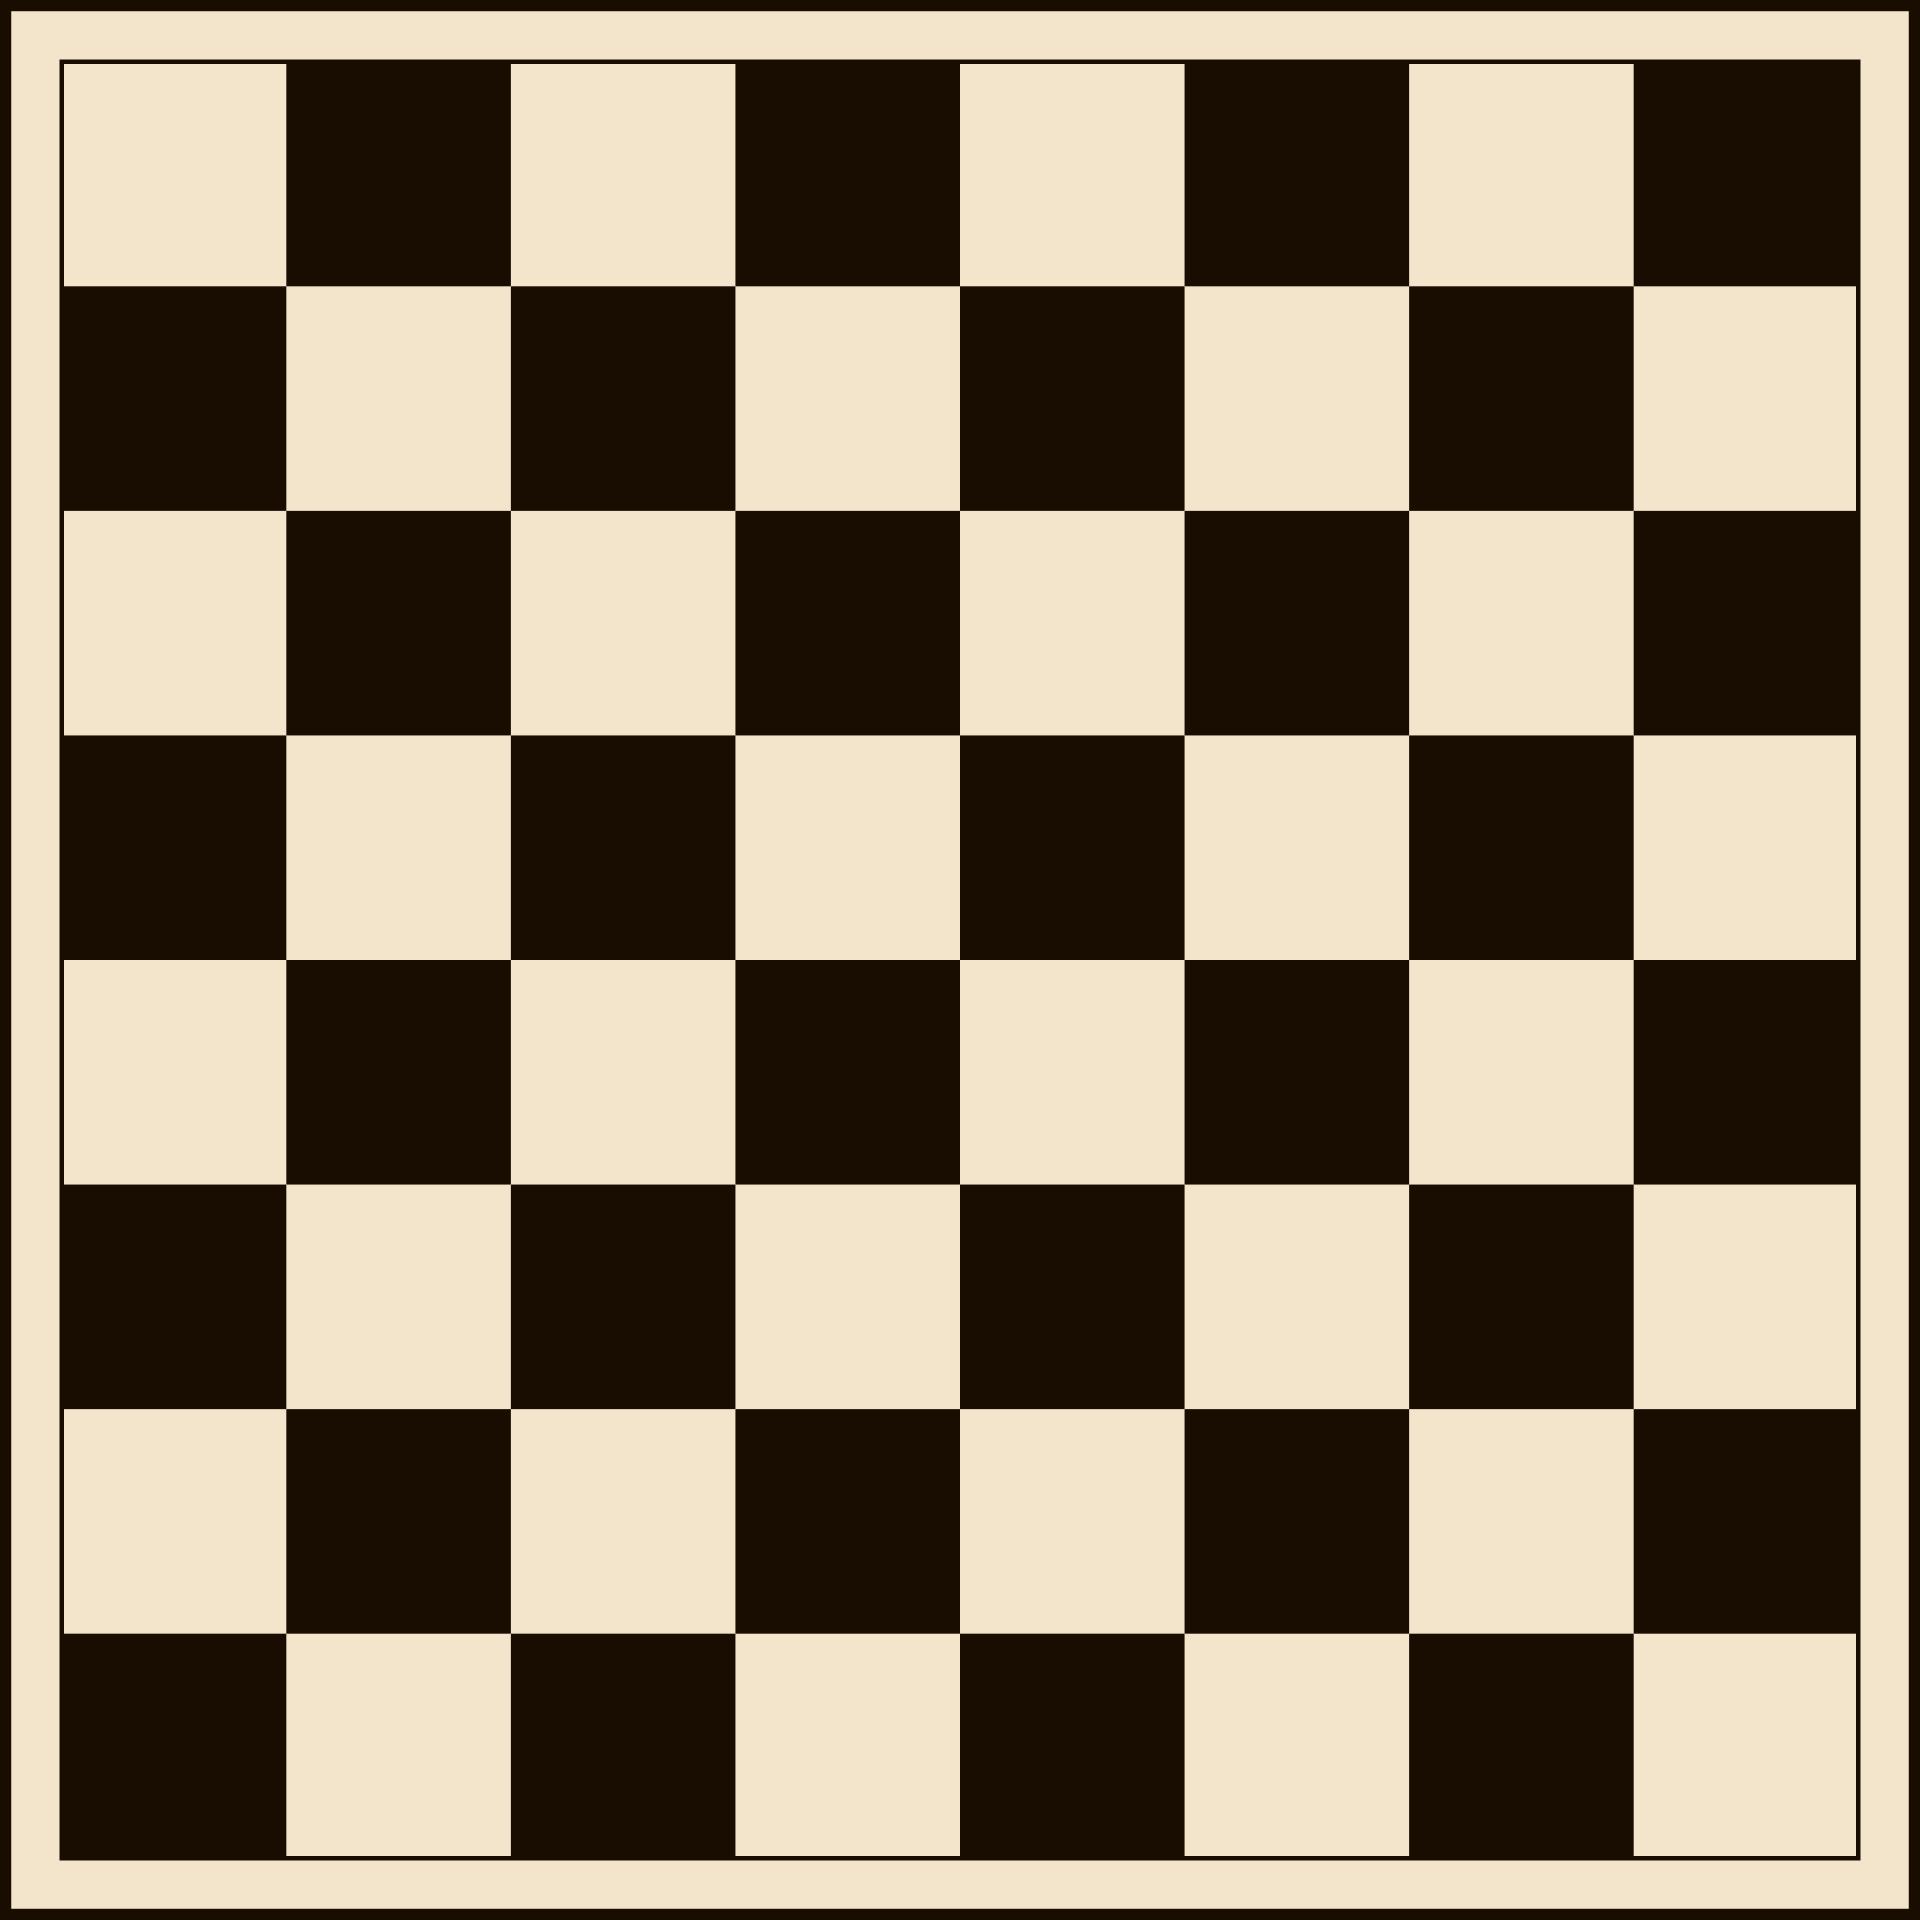
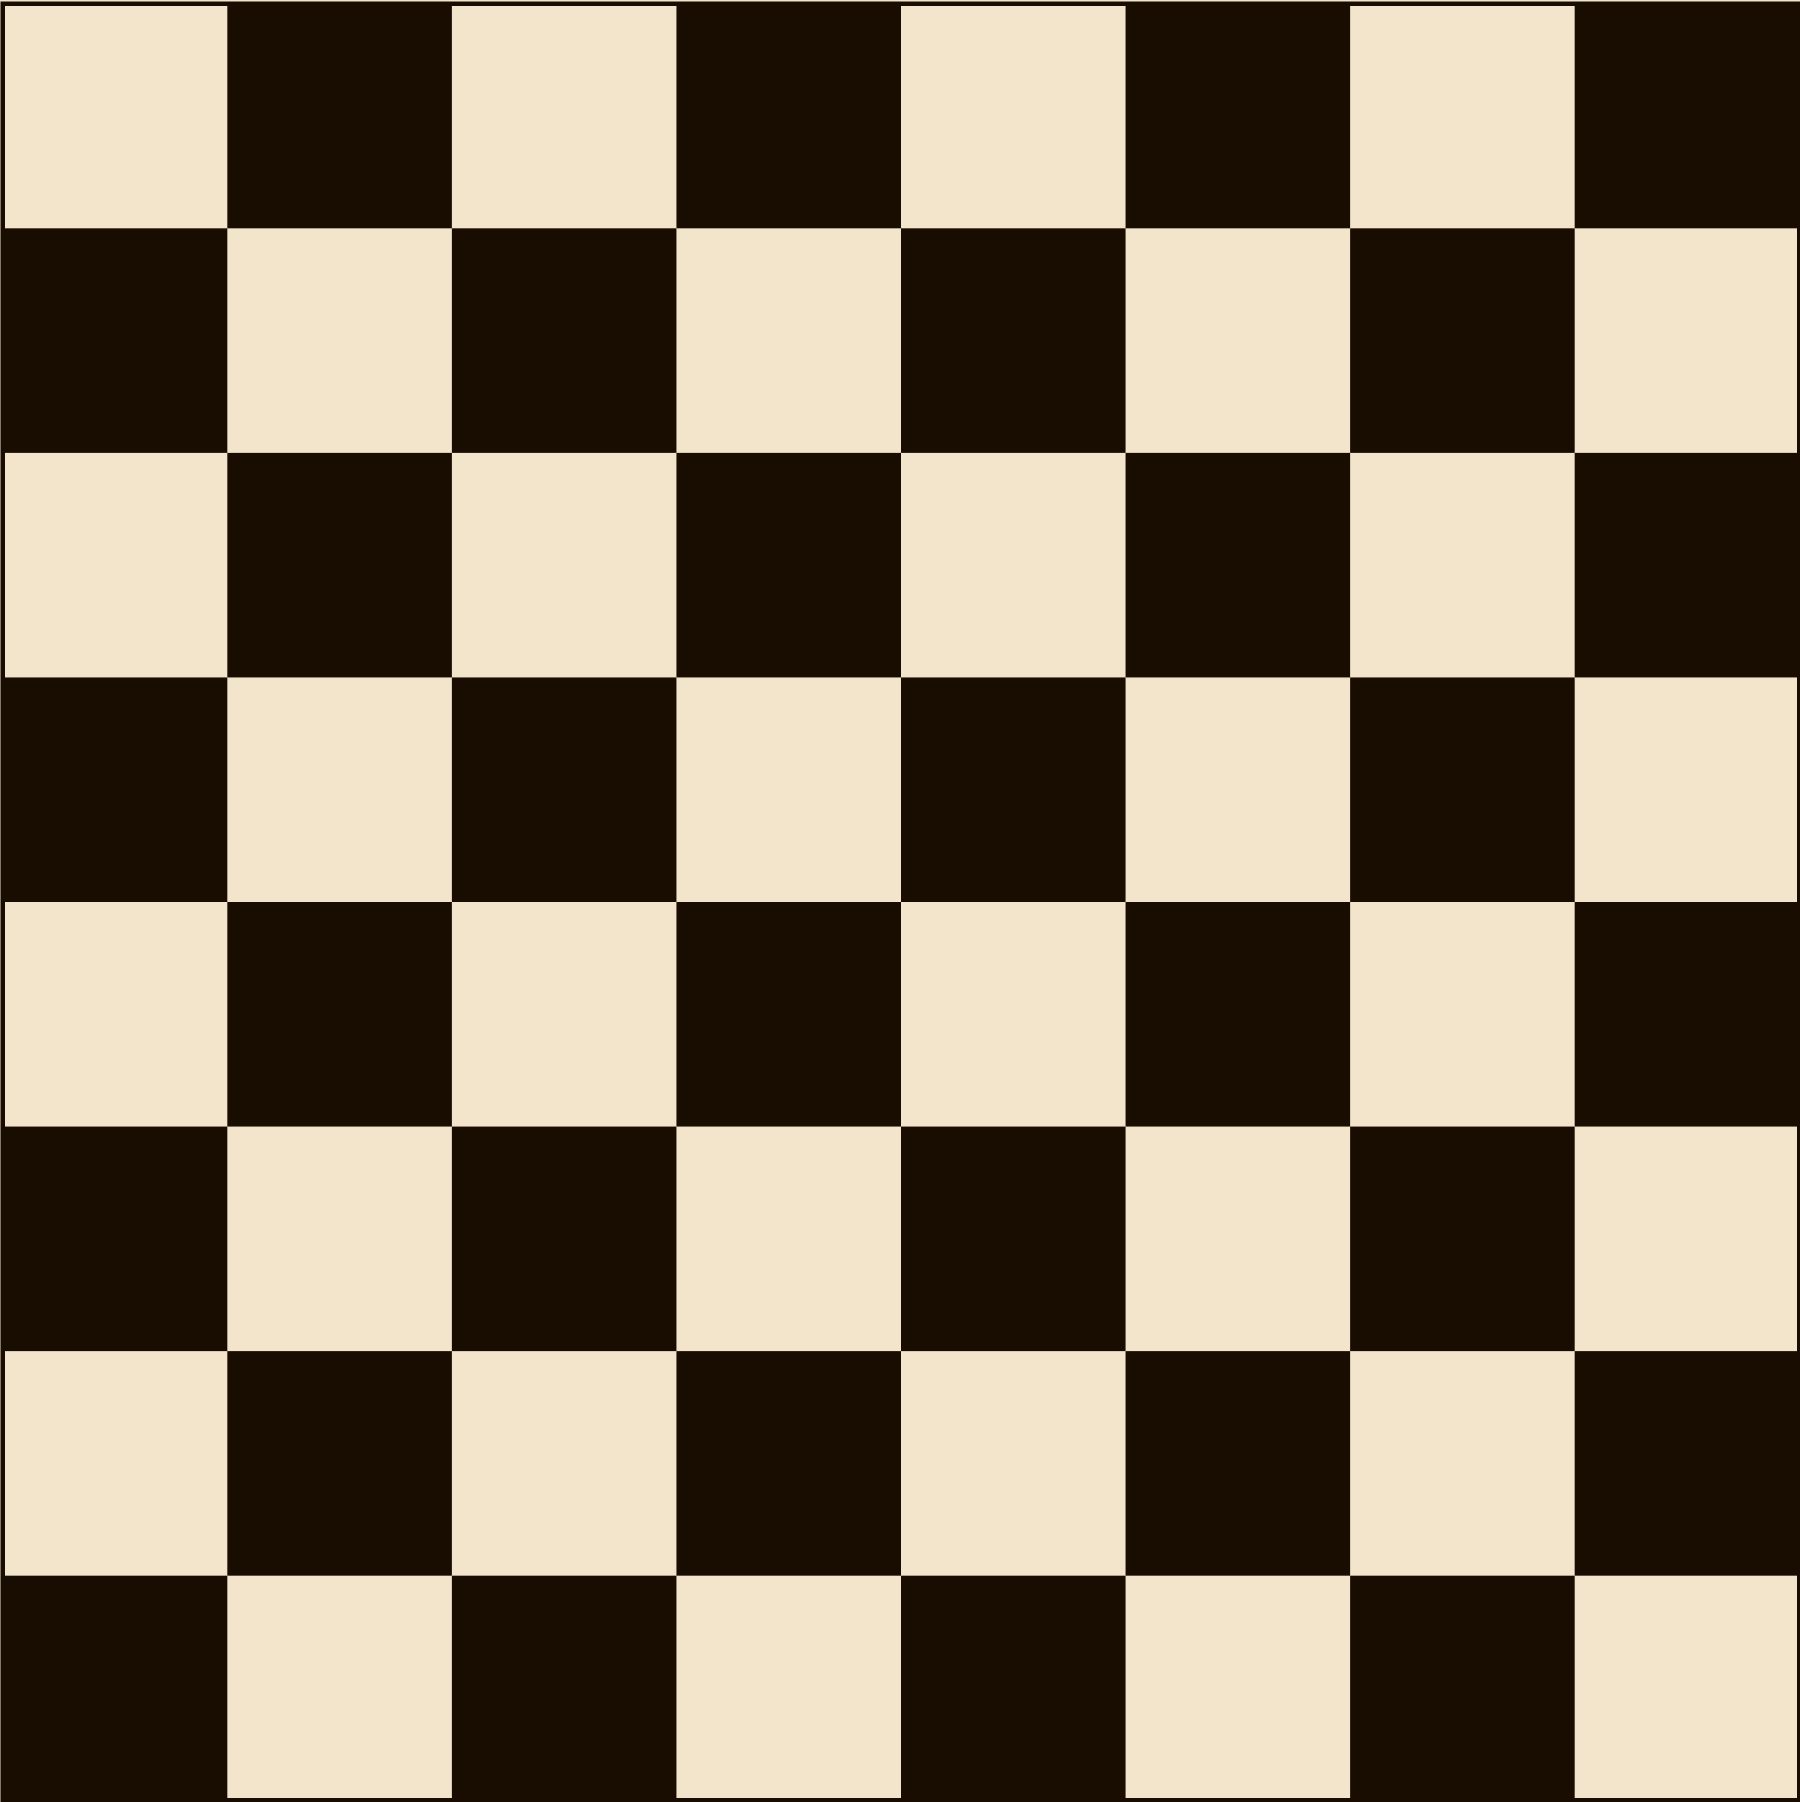
Created/updated movementFunction file so that user clicks can be translated to specific chess square

Changed region(s): [[0.0, 0.0, 1.0, 1.0]]

diff --git a/Chess/main.cpp b/Chess/main.cpp
@@ -6,13 +6,16 @@
 //
 #include <SFML/Graphics.hpp>
 #include <iostream>
-#include "initializationFunctions.hpp"
+#include <string>
+#include "chessPieces.hpp"
+#include "movementFunctions.hpp"
 
 using namespace std;
 
 int main() {
-    // generate window
-    sf::RenderWindow window( sf::VideoMode(1400, 1400), "Chess");
+    // generate window with a fixed size
+    sf::RenderWindow window( sf::VideoMode(1400, 1400), "Chess", sf::Style::Close | sf::Style::Titlebar);
+
     
     // generate background texture (chess board)
     sf::Texture boardTexture;
@@ -24,17 +27,25 @@ int main() {
     sf::Sprite chessBoard;
     chessBoard.setTexture(boardTexture);
     
-    chessBoard.setScale(0.729, 0.729);
+    chessBoard.setScale(0.7769, 0.7777);
     
     // create sprites for all chess pieces
     
     
     while (window.isOpen()) {
         sf::Event event;
-        while (window.pollEvent (event)) {
+        while (window.pollEvent(event)) {
             switch (event.type) {
                 case sf::Event::Closed:
                     window.close();
+                    break;
+                case sf::Event::MouseButtonReleased:
+                    if (event.mouseButton.button == sf::Mouse::Left) {
+                        cout << "x:" << event.mouseButton.x << endl;
+                        cout << "y:" << event.mouseButton.y << endl;
+                        string chessSquare = returnCurrentSquare(event.mouseButton.x, event.mouseButton.y, window.getSize().x, window.getSize().y);
+                        cout << chessSquare << endl;
+                    }
                     break;
                 default:
                     break;
@@ -44,8 +55,6 @@ int main() {
         window.clear();
         
         window.draw(chessBoard);
-        
-        initializePieces(window);
         
         window.display();
     }

diff --git a/Chess/movementFunctions.cpp b/Chess/movementFunctions.cpp
@@ -1,0 +1,27 @@
+//
+//  movementFunctions.cpp
+//  Chess
+//
+//  Created by Earlene on 4/03/21.
+//
+
+#include "movementFunctions.hpp"
+#include <iostream>
+#include <string>
+#include <array>
+using namespace std;
+// given the x and y coordinates of a click, return which chess square the user is on
+
+string returnCurrentSquare(int mouseX, int mouseY, int windowX, int windowY) {
+    //to find which square in the x direction the user is on, divide the location of the x and y positions by the length of a square
+    int locationX = mouseX/(windowX/8); //how far to the right the user is
+    int locationY = mouseY/(windowY/8); //how far down the user is
+    
+    //define inverse array for y vaulues
+    int inverseY[8] = {8, 7, 6, 5, 4, 3, 2, 1};
+    
+    locationX += 97;
+    char xChar = locationX;
+    cout << xChar << endl;
+    return (string(1, xChar) + to_string(inverseY[locationY]));
+}

diff --git a/Chess/movementFunctions.hpp b/Chess/movementFunctions.hpp
@@ -1,0 +1,18 @@
+//
+//  movementFunctions.hpp
+//  Chess
+//
+//  Created by Earlene on 4/03/21.
+//
+
+#ifndef movementFunctions_hpp
+#define movementFunctions_hpp
+
+#include <stdio.h>
+#include <string>
+
+using namespace std;
+
+string returnCurrentSquare(int x, int y, int windowX, int windowY);
+
+#endif /* movementFunctions_hpp */

diff --git a/Chess/chessPieces.hpp b/Chess/chessPieces.hpp
@@ -1,0 +1,14 @@
+//
+//  chessPieces.hpp
+//  Chess
+//
+//  Created by Earlene on 4/03/21.
+//
+
+#ifndef chessPieces_hpp
+#define chessPieces_hpp
+
+#include <stdio.h>
+
+
+#endif /* chessPieces_hpp */

diff --git a/Chess/chessPieces.cpp b/Chess/chessPieces.cpp
@@ -1,0 +1,8 @@
+//
+//  chessPieces.cpp
+//  Chess
+//
+//  Created by Earlene on 4/03/21.
+//
+
+#include "chessPieces.hpp"
